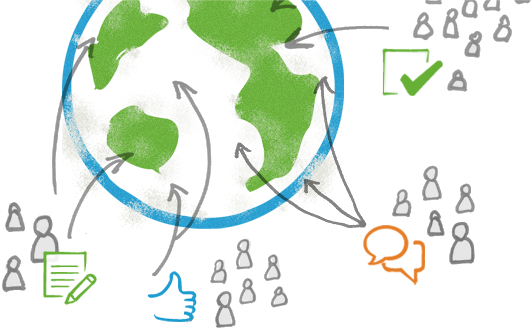
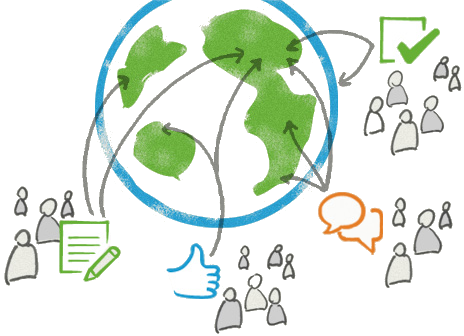
[COLAB-813] made background of homespot image transparent

diff --git a/themes/climatecolab-theme/src/main/webapp/css/style/pages/_homepage.scss b/themes/climatecolab-theme/src/main/webapp/css/style/pages/_homepage.scss
@@ -13,7 +13,7 @@
 }
 
 .earth {
-  background: url(../images/homespot/earth.jpg) no-repeat 500px top;
+  background: url(../images/homespot/earth.png) no-repeat 500px top;
   @include background-size(contain);
   width: 100%;
   min-height: 336px;
